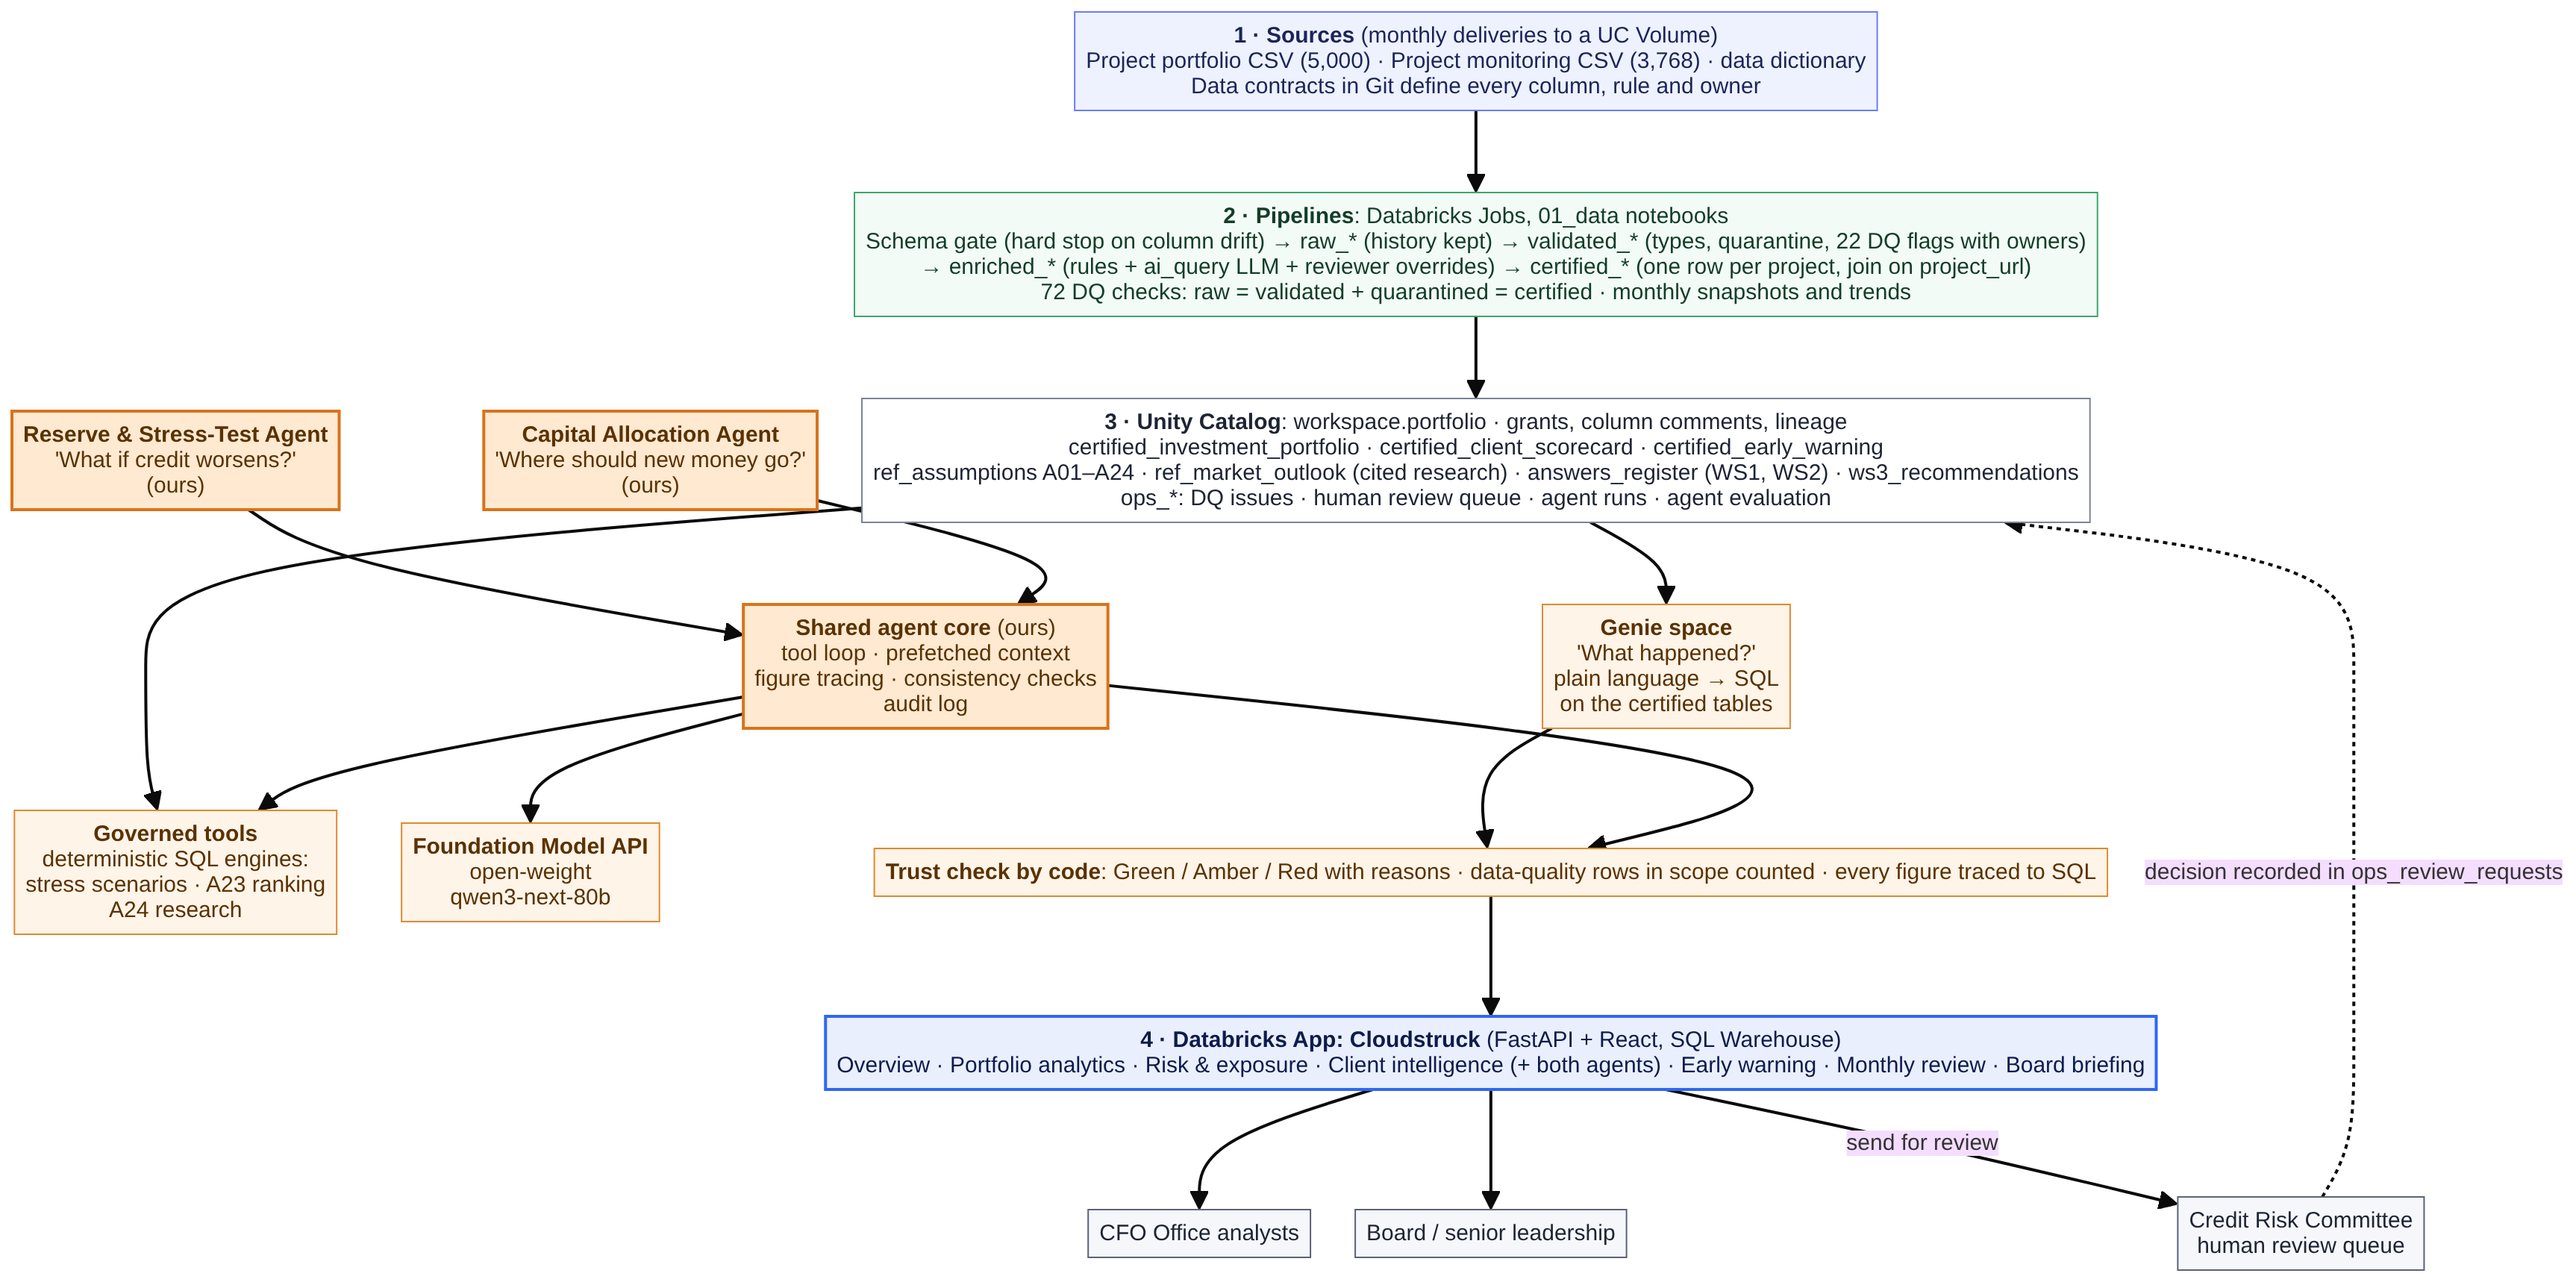
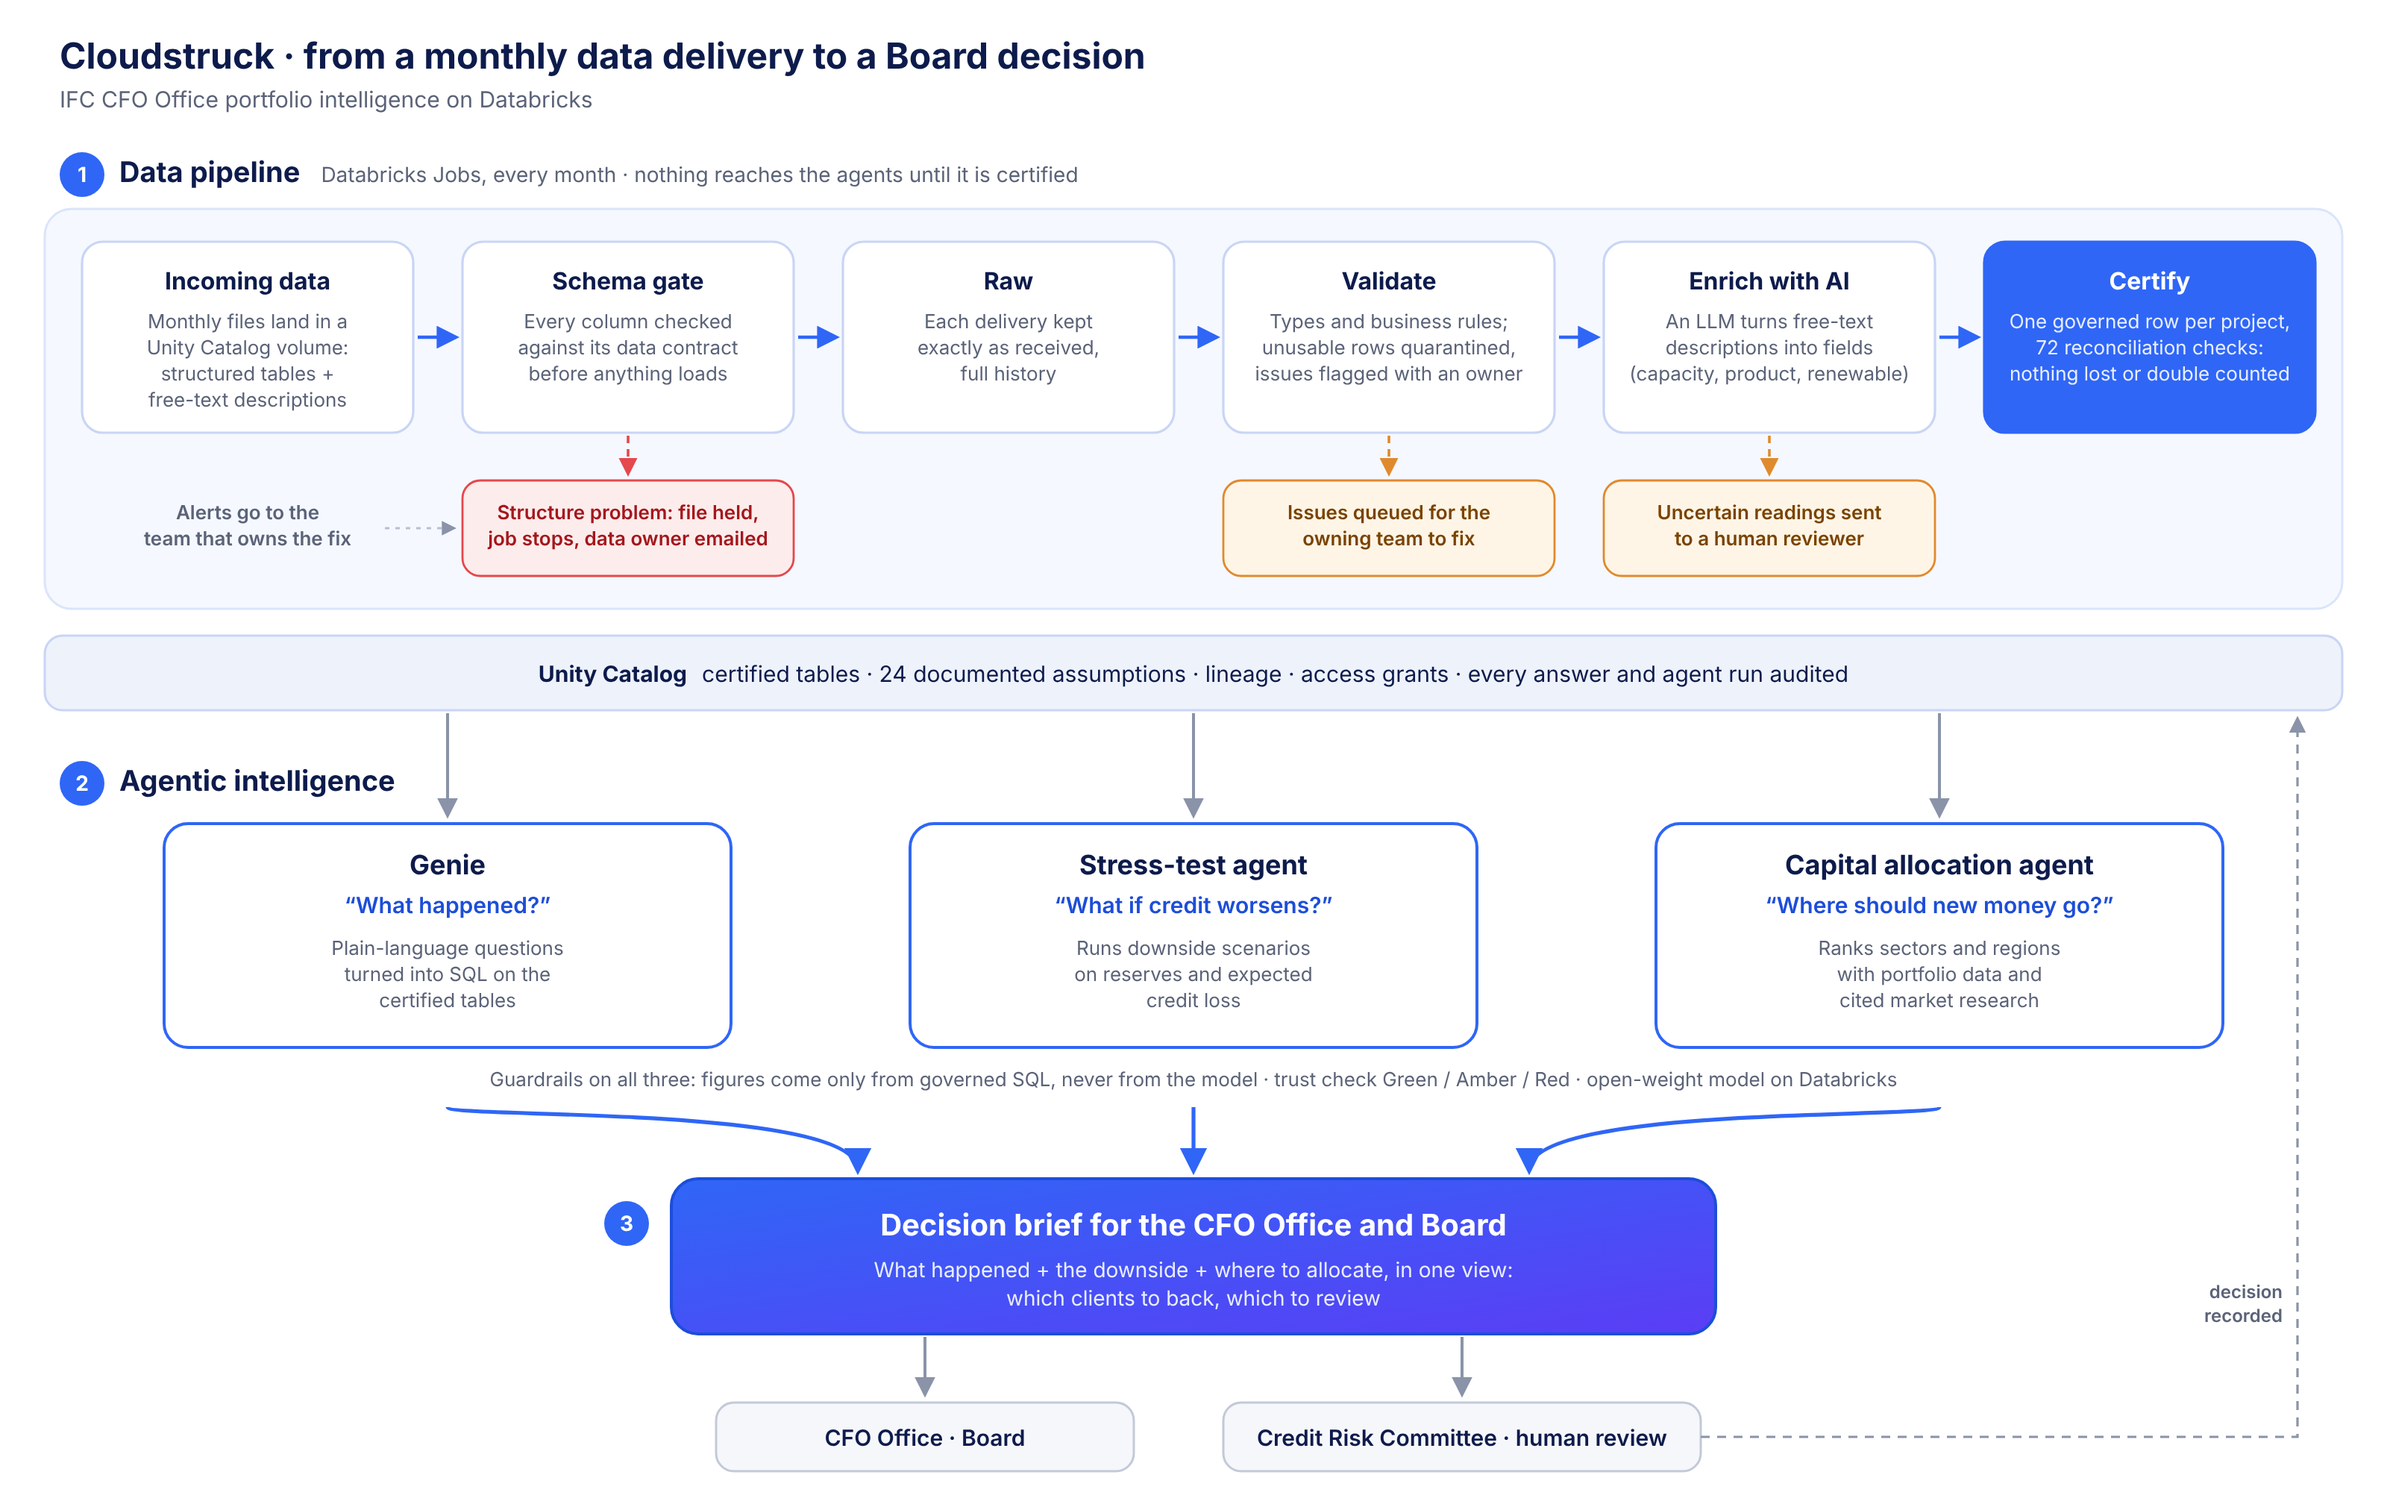
Architecture diagram: redesign as pipeline -> agents -> one decision brief
Three tiers with a fixed layout (SVG generated by assets/make_architecture_diagram.py):
1. the data pipeline as six stages, with the alerts sent when structure, data quality or
   text extraction needs a human; 2. Unity Catalog and the three agents (Genie, stress test,
   capital allocation) on the same governed data; 3. all three feeding one decision brief,
   with human review recorded back. Replaces the Mermaid source.

Claude-Session: https://claude.ai/code/session_01Cn8acFdhJbhZF3FVcdReCu

diff --git a/assets/make_architecture_diagram.py b/assets/make_architecture_diagram.py
@@ -1,0 +1,160 @@
+"""
+Generate the architecture diagram (assets/architecture_diagram_agentic_solution.svg).
+Render to PNG with: node <scratch>/render_svg.js, or open the SVG in a browser.
+
+Three tiers, read top to bottom:
+  1. Data pipeline: a monthly delivery becomes certified data; teams are alerted when something is wrong.
+  2. Agentic intelligence: Genie and the two agents answer three different questions on the same governed data.
+  3. Decision: all three feed one decision brief for the CFO Office and Board, with human review.
+"""
+from pathlib import Path
+from html import escape
+
+W, H = 1600, 1010
+INK, MUTED, BLUE, BLUE_D = "#0d1b4c", "#5b6378", "#2f66f6", "#1d4ed8"
+FONT = "Inter, 'Segoe UI', 'Helvetica Neue', Arial, sans-serif"
+out = []
+
+
+def text(x, y, lines, size=14, weight=400, color=INK, anchor="middle", lh=1.35):
+    """Multi-line text; lines is a str or list. Each item may be (text, weight, color)."""
+    if isinstance(lines, str):
+        lines = [lines]
+    for i, ln in enumerate(lines):
+        t, w, c = (ln, weight, color) if isinstance(ln, str) else (ln + (color,))[:3] if len(ln) == 2 else ln
+        out.append(f'<text x="{x}" y="{y + i * size * lh:.1f}" font-size="{size}" font-weight="{w}" fill="{c}" '
+                   f'text-anchor="{anchor}">{escape(t)}</text>')
+
+
+def box(x, y, w, h, fill="#fff", stroke="#d5dbea", sw=1.5, r=14, dash=None):
+    d = f' stroke-dasharray="{dash}"' if dash else ""
+    out.append(f'<rect x="{x}" y="{y}" width="{w}" height="{h}" rx="{r}" fill="{fill}" stroke="{stroke}" stroke-width="{sw}"{d}/>')
+
+
+def arrow(d, color="#8a93a8", sw=2, dash=None, head="ah"):
+    ds = f' stroke-dasharray="{dash}"' if dash else ""
+    out.append(f'<path d="{d}" fill="none" stroke="{color}" stroke-width="{sw}"{ds} marker-end="url(#{head})"/>')
+
+
+def badge(cx, cy, n, fill=BLUE):
+    out.append(f'<circle cx="{cx}" cy="{cy}" r="15" fill="{fill}"/>')
+    text(cx, cy + 5, str(n), size=14, weight=700, color="#fff")
+
+
+def band_title(x, y, n, title, sub):
+    badge(x + 15, y - 5, n)
+    out.append(f'<text x="{x + 40}" y="{y}" fill="{INK}"><tspan font-size="19" font-weight="700">{escape(title)}</tspan>'
+               f'<tspan font-size="14" fill="{MUTED}" dx="14">{escape(sub)}</tspan></text>')
+
+
+# ---------------------------------------------------------------- frame
+out.append(f'<rect width="{W}" height="{H}" fill="#ffffff"/>')
+text(40, 46, [("Cloudstruck · from a monthly data delivery to a Board decision", 700)], size=24, anchor="start")
+text(40, 72, "IFC CFO Office portfolio intelligence on Databricks", size=15, color=MUTED, anchor="start")
+
+# ---------------------------------------------------------------- 1. data pipeline
+band_title(40, 122, 1, "Data pipeline", "Databricks Jobs, every month · nothing reaches the agents until it is certified")
+box(30, 140, 1540, 268, fill="#f5f8ff", stroke="#dbe4fb", r=18)
+
+stages = [
+    ("Incoming data", ["Monthly files land in a", "Unity Catalog volume:", "structured tables +", "free-text descriptions"]),
+    ("Schema gate", ["Every column checked", "against its data contract", "before anything loads"]),
+    ("Raw", ["Each delivery kept", "exactly as received,", "full history"]),
+    ("Validate", ["Types and business rules;", "unusable rows quarantined,", "issues flagged with an owner"]),
+    ("Enrich with AI", ["An LLM turns free-text", "descriptions into fields", "(capacity, product, renewable)"]),
+    ("Certify", ["One governed row per project,", "72 reconciliation checks:", "nothing lost or double counted"]),
+]
+bw, bh, gap, x0, y0 = 222, 128, 33, 55, 162
+centers = []
+for i, (t, body) in enumerate(stages):
+    x = x0 + i * (bw + gap)
+    last = i == len(stages) - 1
+    box(x, y0, bw, bh, fill=BLUE if last else "#ffffff", stroke=BLUE if last else "#c9d5f5", sw=1.6)
+    c = "#ffffff" if last else INK
+    text(x + bw / 2, y0 + 32, [(t, 700)], size=16, color=c)
+    text(x + bw / 2, y0 + 58, body, size=13, color="#e8eeff" if last else MUTED)
+    centers.append(x + bw / 2)
+    if i:
+        arrow(f"M{x - gap + 3} {y0 + bh / 2} L{x - 5} {y0 + bh / 2}", color=BLUE, sw=2.2, head="ahb")
+
+# alerts under the gate, validate and enrich stages
+alerts = [
+    (1, "#fdecec", "#e5484d", "#a3171c", ["Structure problem: file held,", "job stops, data owner emailed"]),
+    (3, "#fff5e6", "#e08a2e", "#7a4300", ["Issues queued for the", "owning team to fix"]),
+    (4, "#fff5e6", "#e08a2e", "#7a4300", ["Uncertain readings sent", "to a human reviewer"]),
+]
+ay = 322
+for i, fill, stroke, ink, lines in alerts:
+    cx = centers[i]
+    arrow(f"M{cx} {y0 + bh + 2} L{cx} {ay - 5}", color=stroke, sw=1.8, dash="5 4", head="ah_" + stroke[1:])
+    box(cx - 111, ay, 222, 64, fill=fill, stroke=stroke, sw=1.4, r=12)
+    text(cx, ay + 26, lines, size=13, color=ink, weight=600)
+text(centers[0], ay + 26, [("Alerts go to the", 600), ("team that owns the fix", 600)], size=13, color=MUTED)
+arrow(f"M{centers[0] + 92} {ay + 32} L{centers[1] - 117} {ay + 32}", color="#b8bfd0", sw=1.4, dash="3 4")
+
+# ---------------------------------------------------------------- governance strip
+gy = 426
+box(30, gy, 1540, 50, fill="#eef2fb", stroke="#c9d5f5", r=12)
+out.append(f'<text x="800" y="{gy + 31}" font-size="15" fill="{INK}" text-anchor="middle"><tspan font-weight="700">'
+           'Unity Catalog</tspan><tspan dx="10">certified tables · 24 documented assumptions · lineage · access grants · '
+           'every answer and agent run audited</tspan></text>')
+
+# ---------------------------------------------------------------- 2. agentic intelligence
+band_title(40, 530, 2, "Agentic intelligence", "")
+agents = [
+    ("Genie", "What happened?", ["Plain-language questions", "turned into SQL on the", "certified tables"]),
+    ("Stress-test agent", "What if credit worsens?", ["Runs downside scenarios", "on reserves and expected", "credit loss"]),
+    ("Capital allocation agent", "Where should new money go?", ["Ranks sectors and regions", "with portfolio data and", "cited market research"]),
+]
+aw, ah, ay2 = 380, 150, 552
+ax = [110, 610, 1110]
+for (t, q, body), x in zip(agents, ax):
+    arrow(f"M{x + aw / 2} {gy + 52} L{x + aw / 2} {ay2 - 6}", color="#8a93a8", sw=2)
+    box(x, ay2, aw, ah, fill="#ffffff", stroke=BLUE, sw=2, r=16)
+    text(x + aw / 2, ay2 + 34, [(t, 700)], size=18)
+    text(x + aw / 2, ay2 + 60, [(f"“{q}”", 600)], size=15, color=BLUE_D)
+    text(x + aw / 2, ay2 + 88, body, size=13, color=MUTED)
+gr_y = ay2 + ah + 14
+text(800, gr_y + 12, "Guardrails on all three: figures come only from governed SQL, never from the model · trust check Green / Amber / Red · open-weight model on Databricks",
+     size=13, color=MUTED)
+
+# ---------------------------------------------------------------- 3. decision (the three pour into one brief)
+dy, dw, dh = 790, 700, 104
+dx = 800 - dw / 2
+for x in ax:
+    sx = x + aw / 2
+    tx = 800 + (sx - 800) * 0.45
+    arrow(f"M{sx} {gr_y + 26} C{sx} {dy - 40}, {tx} {dy - 50}, {tx} {dy - 6}", color=BLUE, sw=2.6, head="ahb")
+badge(dx - 30, dy + 30, 3)
+box(dx, dy, dw, dh, fill="url(#g)", stroke=BLUE_D, sw=2, r=18)
+text(800, dy + 38, [("Decision brief for the CFO Office and Board", 700)], size=20, color="#ffffff")
+text(800, dy + 66, ["What happened + the downside + where to allocate, in one view:", "which clients to back, which to review"],
+     size=14, color="#e8eeff")
+
+# people and the human-review loop
+py = 940
+arrow(f"M{dx + 170} {dy + dh + 2} L{dx + 170} {py - 6}", color="#8a93a8", sw=2)
+arrow(f"M{dx + dw - 170} {dy + dh + 2} L{dx + dw - 170} {py - 6}", color="#8a93a8", sw=2)
+box(dx + 30, py, 280, 46, fill="#f6f7fb", stroke="#c3c9d8", r=12)
+text(dx + 170, py + 29, [("CFO Office · Board", 600)], size=15)
+box(dx + dw - 330, py, 320, 46, fill="#f6f7fb", stroke="#c3c9d8", r=12)
+text(dx + dw - 170, py + 29, [("Credit Risk Committee · human review", 600)], size=15)
+# decision recorded back into the catalog
+rx = dx + dw - 10
+arrow(f"M{rx} {py + 23} L{1540} {py + 23} L{1540} {gy + 56}", color="#8a93a8", sw=1.6, dash="6 5")
+text(1530, 870, [("decision", 600), ("recorded", 600)], size=12, color=MUTED, anchor="end")
+
+# ---------------------------------------------------------------- write
+defs = ['<marker id="ah" viewBox="0 0 10 10" refX="8" refY="5" markerWidth="7" markerHeight="7" orient="auto-start-reverse">'
+        '<path d="M0 0 L10 5 L0 10 z" fill="#8a93a8"/></marker>',
+        f'<marker id="ahb" viewBox="0 0 10 10" refX="8" refY="5" markerWidth="7" markerHeight="7" orient="auto-start-reverse">'
+        f'<path d="M0 0 L10 5 L0 10 z" fill="{BLUE}"/></marker>',
+        f'<linearGradient id="g" x1="0" y1="0" x2="1" y2="1"><stop offset="0" stop-color="{BLUE}"/>'
+        f'<stop offset="1" stop-color="#5b3df5"/></linearGradient>']
+for c in ("e5484d", "e08a2e"):
+    defs.append(f'<marker id="ah_{c}" viewBox="0 0 10 10" refX="8" refY="5" markerWidth="7" markerHeight="7" orient="auto">'
+                f'<path d="M0 0 L10 5 L0 10 z" fill="#{c}"/></marker>')
+svg = (f'<svg xmlns="http://www.w3.org/2000/svg" width="{W}" height="{H}" viewBox="0 0 {W} {H}" font-family="{FONT}">'
+       f'<defs>{"".join(defs)}</defs>\n' + "\n".join(out) + "\n</svg>\n")
+Path(__file__).with_name("architecture_diagram_agentic_solution.svg").write_text(svg)
+print("written")

diff --git a/CLAUDE.md b/CLAUDE.md
@@ -55,7 +55,7 @@ This repo combines **two codebases** that are being merged. **Rule: everything o
 - **Phrasing test:** `app/backend/evaluate.py` → `ops_agent_evaluation` + `02_agent/agent_evaluation_report.md`:
   24 of 24 consistent. Genie sheet `02_agent/genie_phrasing_test.md` for the user to run.
 - **Docs:** README rewritten as the handover document (team: Cloudstruck; Akash Mukhopadhyay, Pruthvi Doshi, Sneha Chandrasekaran, Ritvik Kohli);
-  `assets/architecture_diagram_agentic_solution.{mmd,png}` (rendered with mermaid@10.9.1 via Playwright);
+  `assets/architecture_diagram_agentic_solution.{svg,png}` (generated by `assets/make_architecture_diagram.py`, PNG rendered from the SVG via Playwright at 2x; 2026-11-16 redesign: pipeline with alerts → Unity Catalog → Genie + both agents → one decision brief);
   `04_answers/ws3/board_recommendation.md`; the `ws3_recommendations.team_rationale` rows were updated with the team's
   reasons (the same text as RATIONALE in the ws3 notebook); `03_demo/README.md` walkthrough + 3-minute script.
 

diff --git a/README.md b/README.md
@@ -86,7 +86,7 @@ Every page has **Evidence / SQL** and **Assumptions** buttons that show exactly 
   - the table: `ws3_recommendations`;
   - in the app: Client intelligence (Board recommendation step and the two agents).
 
-**Architecture diagram:** `assets/architecture_diagram_agentic_solution.png` (Mermaid source in the same folder),
+**Architecture diagram:** `assets/architecture_diagram_agentic_solution.png` (SVG and its generator `make_architecture_diagram.py` in the same folder),
 also shown in §2 below.
 
 ### Everything else

diff --git a/MERGE_PLAN.md b/MERGE_PLAN.md
@@ -82,7 +82,7 @@ ifc-cfo-copilot/
   02_agent/ 02_agent_capabilities.py  03_build_agent.py  cfo_agent.py  04_evaluate_genie.py (new)
   03_demo/04_app.py
   04_answers/ws1/ws1_answers.py  ws2/ws2_board_questions.py  ws3/ws3_client_recommendations.py
-  assets/architecture_diagram_agentic_solution.mmd
+  assets/architecture_diagram_agentic_solution.svg (+ make_architecture_diagram.py)
   tests/ sqlite_dialect.py  README.md        test_files/  (broken demo files)
   reference/teammate_original/       # untouched
 ```
